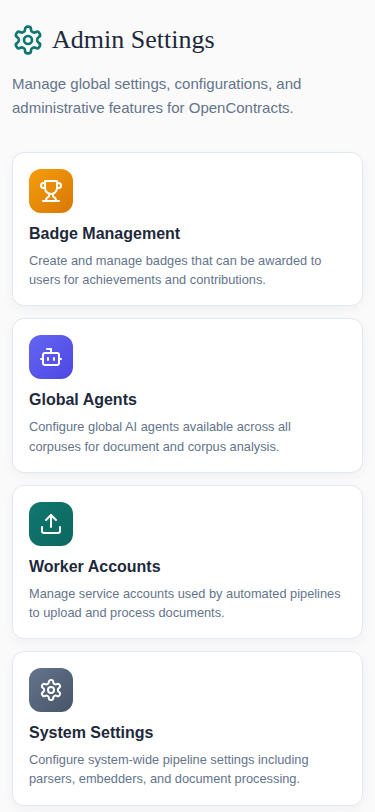
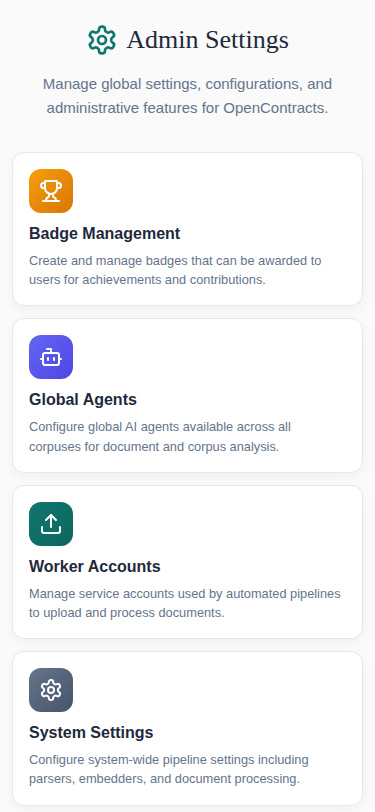
Address PR review: extract design tokens, fix units, restore mobile centering, improve test
- Extract page-level layout and font-size tokens into OS_LEGAL_SPACING
  and OS_LEGAL_FONT_SIZES in osLegalStyles.ts (eliminates magic numbers)
- Use TABLET_BREAKPOINT and MOBILE_VIEW_BREAKPOINT from constants.ts
  for media queries instead of hardcoded pixel values
- Unify all sizing to rem units (was mixed px/rem)
- Restore text-align: center and justify-content: center on mobile for
  hero section (regression from prior commit)
- Replace badge color literal with OS_LEGAL_COLORS.chartPurple
- Fix mobile test to assert single-column layout via bounding box
  comparison (x positions match, y positions differ)

Changed region(s): [[0.0293, 0.0308, 0.88, 0.1539]]

diff --git a/frontend/src/components/admin/GlobalSettingsPanel.tsx b/frontend/src/components/admin/GlobalSettingsPanel.tsx
@@ -8,7 +8,12 @@ import {
   OS_LEGAL_TYPOGRAPHY,
   OS_LEGAL_SPACING,
   OS_LEGAL_SHADOWS,
+  OS_LEGAL_FONT_SIZES,
 } from "../../assets/configurations/osLegalStyles";
+import {
+  MOBILE_VIEW_BREAKPOINT,
+  TABLET_BREAKPOINT,
+} from "../../assets/configurations/constants";
 
 const PageContainer = styled.div`
   height: 100%;
@@ -19,24 +24,25 @@ const PageContainer = styled.div`
 `;
 
 const ContentContainer = styled.main`
-  max-width: 900px;
+  max-width: ${OS_LEGAL_SPACING.pageMaxWidth};
   margin: 0 auto;
-  padding: 48px 24px 80px;
+  padding: ${OS_LEGAL_SPACING.pagePaddingDesktop};
 
-  @media (max-width: 768px) {
-    padding: 32px 16px 60px;
+  @media (max-width: ${TABLET_BREAKPOINT}px) {
+    padding: ${OS_LEGAL_SPACING.pagePaddingTablet};
   }
 
-  @media (max-width: 480px) {
-    padding: 24px 12px 48px;
+  @media (max-width: ${MOBILE_VIEW_BREAKPOINT}px) {
+    padding: ${OS_LEGAL_SPACING.pagePaddingMobile};
   }
 `;
 
 const HeroSection = styled.section`
-  margin-bottom: 48px;
+  margin-bottom: ${OS_LEGAL_SPACING.sectionGapDesktop};
 
-  @media (max-width: 768px) {
-    margin-bottom: 32px;
+  @media (max-width: ${TABLET_BREAKPOINT}px) {
+    margin-bottom: ${OS_LEGAL_SPACING.sectionGapMobile};
+    text-align: center;
   }
 `;
 
@@ -45,44 +51,46 @@ const HeroTitle = styled.h1`
   align-items: center;
   gap: 0.5rem;
   font-family: ${OS_LEGAL_TYPOGRAPHY.fontFamilySerif};
-  font-size: 42px;
+  font-size: ${OS_LEGAL_FONT_SIZES.heroDesktop};
   font-weight: 400;
   line-height: 1.2;
   color: ${OS_LEGAL_COLORS.textPrimary};
-  margin: 0 0 16px;
+  margin: 0 0 ${OS_LEGAL_SPACING.headingBottomGap};
 
-  @media (max-width: 768px) {
-    font-size: 32px;
+  @media (max-width: ${TABLET_BREAKPOINT}px) {
+    font-size: ${OS_LEGAL_FONT_SIZES.heroTablet};
+    justify-content: center;
   }
 
-  @media (max-width: 480px) {
-    font-size: 26px;
+  @media (max-width: ${MOBILE_VIEW_BREAKPOINT}px) {
+    font-size: ${OS_LEGAL_FONT_SIZES.heroMobile};
   }
 `;
 
 const HeroSubtitle = styled.p`
-  font-size: 17px;
+  font-size: ${OS_LEGAL_FONT_SIZES.subtitleDesktop};
   line-height: 1.6;
   color: ${OS_LEGAL_COLORS.textSecondary};
   margin: 0;
-  max-width: 600px;
+  max-width: ${OS_LEGAL_SPACING.subtitleMaxWidth};
 
-  @media (max-width: 768px) {
-    font-size: 15px;
+  @media (max-width: ${TABLET_BREAKPOINT}px) {
+    font-size: ${OS_LEGAL_FONT_SIZES.subtitleMobile};
+    margin: 0 auto;
   }
 `;
 
 const SettingsGrid = styled.div`
   display: grid;
-  grid-template-columns: repeat(auto-fill, minmax(280px, 1fr));
+  grid-template-columns: repeat(auto-fill, minmax(17.5rem, 1fr));
   gap: 1.5rem;
 
-  @media (max-width: 768px) {
-    grid-template-columns: repeat(auto-fill, minmax(240px, 1fr));
+  @media (max-width: ${TABLET_BREAKPOINT}px) {
+    grid-template-columns: repeat(auto-fill, minmax(15rem, 1fr));
     gap: 1rem;
   }
 
-  @media (max-width: 480px) {
+  @media (max-width: ${MOBILE_VIEW_BREAKPOINT}px) {
     grid-template-columns: 1fr;
     gap: 0.75rem;
   }
@@ -121,18 +129,18 @@ const SettingsCard = styled.div<{ $disabled?: boolean }>`
     }
   `}
 
-  @media (max-width: 768px) {
+  @media (max-width: ${TABLET_BREAKPOINT}px) {
     padding: 1.25rem;
   }
 
-  @media (max-width: 480px) {
+  @media (max-width: ${MOBILE_VIEW_BREAKPOINT}px) {
     padding: 1rem;
   }
 `;
 
 const CardIconWrapper = styled.div<{ $gradient: string }>`
-  width: 48px;
-  height: 48px;
+  width: 3rem;
+  height: 3rem;
   border-radius: ${OS_LEGAL_SPACING.borderRadiusCard};
   background: ${({ $gradient }) => $gradient};
   display: flex;
@@ -140,16 +148,16 @@ const CardIconWrapper = styled.div<{ $gradient: string }>`
   justify-content: center;
   margin-bottom: 1rem;
 
-  @media (max-width: 768px) {
-    width: 44px;
-    height: 44px;
+  @media (max-width: ${TABLET_BREAKPOINT}px) {
+    width: 2.75rem;
+    height: 2.75rem;
     margin-bottom: 0.75rem;
   }
 `;
 
 const CardTitle = styled.h3`
   font-family: ${OS_LEGAL_TYPOGRAPHY.fontFamilySans};
-  font-size: 1.125rem;
+  font-size: ${OS_LEGAL_FONT_SIZES.cardTitle};
   font-weight: 600;
   color: ${OS_LEGAL_COLORS.textPrimary};
   margin: 0 0 0.5rem 0;
@@ -157,35 +165,35 @@ const CardTitle = styled.h3`
   align-items: center;
   flex-wrap: wrap;
 
-  @media (max-width: 768px) {
-    font-size: 1rem;
+  @media (max-width: ${TABLET_BREAKPOINT}px) {
+    font-size: ${OS_LEGAL_FONT_SIZES.cardTitleMobile};
   }
 `;
 
 const CardDescription = styled.p`
   font-family: ${OS_LEGAL_TYPOGRAPHY.fontFamilySans};
-  font-size: 0.875rem;
+  font-size: ${OS_LEGAL_FONT_SIZES.cardDescription};
   color: ${OS_LEGAL_COLORS.textSecondary};
   margin: 0;
   line-height: 1.5;
 
-  @media (max-width: 768px) {
-    font-size: 0.8rem;
+  @media (max-width: ${TABLET_BREAKPOINT}px) {
+    font-size: ${OS_LEGAL_FONT_SIZES.cardDescriptionMobile};
   }
 `;
 
 const ComingSoonBadge = styled.span`
   display: inline-block;
   font-family: ${OS_LEGAL_TYPOGRAPHY.fontFamilySans};
-  font-size: 0.75rem;
+  font-size: ${OS_LEGAL_FONT_SIZES.badge};
   font-weight: 500;
-  color: #8b5cf6;
+  color: ${OS_LEGAL_COLORS.chartPurple};
   background: #f3e8ff;
   padding: 0.25rem 0.75rem;
   border-radius: 9999px;
   margin-left: 0.5rem;
 
-  @media (max-width: 480px) {
+  @media (max-width: ${MOBILE_VIEW_BREAKPOINT}px) {
     display: block;
     margin-left: 0;
     margin-top: 0.5rem;

diff --git a/frontend/src/assets/configurations/osLegalStyles.ts b/frontend/src/assets/configurations/osLegalStyles.ts
@@ -277,6 +277,59 @@ export const OS_LEGAL_SPACING = {
   borderRadiusCard: "12px",
   /** Border radius for buttons and smaller elements. */
   borderRadiusButton: "8px",
+
+  // ── Page-level layout tokens ──
+  // Used by ContentContainer / PageContainer across list views
+  // (CorpusListView, Documents, Extracts, LabelSets, GlobalSettingsPanel, etc.)
+
+  /** Maximum content width for centered page layouts. */
+  pageMaxWidth: "900px",
+  /** Maximum width for subtitle / descriptive text below hero headings. */
+  subtitleMaxWidth: "600px",
+
+  /** Desktop padding for ContentContainer (top horizontal bottom). */
+  pagePaddingDesktop: "3rem 1.5rem 5rem",
+  /** Tablet padding (≤ 768px). */
+  pagePaddingTablet: "2rem 1rem 3.75rem",
+  /** Mobile padding (≤ 480px). */
+  pagePaddingMobile: "1.5rem 0.75rem 3rem",
+
+  /** Standard section spacing (hero ↔ content). */
+  sectionGapDesktop: "3rem",
+  /** Reduced section spacing for tablet / mobile. */
+  sectionGapMobile: "2rem",
+
+  /** Standard gap between heading and its subtitle. */
+  headingBottomGap: "1rem",
+} as const;
+
+/**
+ * Font-size tokens for the OS Legal design system.
+ * Pixel-equivalent comments are included for reference (at 16px root).
+ */
+export const OS_LEGAL_FONT_SIZES = {
+  /** Hero / page title — desktop (≈ 42px). */
+  heroDesktop: "2.625rem",
+  /** Hero / page title — tablet (≈ 32px). */
+  heroTablet: "2rem",
+  /** Hero / page title — mobile (≈ 26px). */
+  heroMobile: "1.625rem",
+
+  /** Hero subtitle — desktop (≈ 17px). */
+  subtitleDesktop: "1.0625rem",
+  /** Hero subtitle — tablet/mobile (≈ 15px). */
+  subtitleMobile: "0.9375rem",
+
+  /** Card title (≈ 18px). */
+  cardTitle: "1.125rem",
+  /** Card title — tablet/mobile (≈ 16px). */
+  cardTitleMobile: "1rem",
+  /** Card description (≈ 14px). */
+  cardDescription: "0.875rem",
+  /** Card description — mobile (≈ 13px). */
+  cardDescriptionMobile: "0.8rem",
+  /** Small badge / label text (≈ 12px). */
+  badge: "0.75rem",
 } as const;
 
 /**

diff --git a/frontend/tests/admin-components.ct.tsx b/frontend/tests/admin-components.ct.tsx
@@ -185,7 +185,7 @@ test.describe("GlobalSettingsPanel Component", () => {
     await component.unmount();
   });
 
-  test("should render responsively at mobile width", async ({
+  test("should render responsively at mobile width with single-column stacking", async ({
     mount,
     page,
   }) => {
@@ -195,9 +195,24 @@ test.describe("GlobalSettingsPanel Component", () => {
     await expect(page.locator("text=Admin Settings")).toBeVisible();
     await expect(page.locator("text=Badge Management")).toBeVisible();
 
-    // On mobile, cards should stack in a single column
-    const grid = page.locator('[data-testid="settings-card-badges"]').first();
-    await expect(grid).toBeVisible();
+    // Verify single-column layout: two adjacent cards should share the same
+    // x position and the second should be below the first.
+    const firstCard = page.locator('[data-testid="settings-card-badges"]');
+    const secondCard = page.locator(
+      '[data-testid="settings-card-global-agents"]'
+    );
+    await expect(firstCard).toBeVisible();
+    await expect(secondCard).toBeVisible();
+
+    const firstBox = await firstCard.boundingBox();
+    const secondBox = await secondCard.boundingBox();
+    expect(firstBox).not.toBeNull();
+    expect(secondBox).not.toBeNull();
+
+    // Same x position means single column
+    expect(firstBox!.x).toBeCloseTo(secondBox!.x, 0);
+    // Second card is below the first
+    expect(secondBox!.y).toBeGreaterThan(firstBox!.y + firstBox!.height / 2);
 
     await docScreenshot(page, "admin--settings-panel--mobile", {
       fullPage: true,
